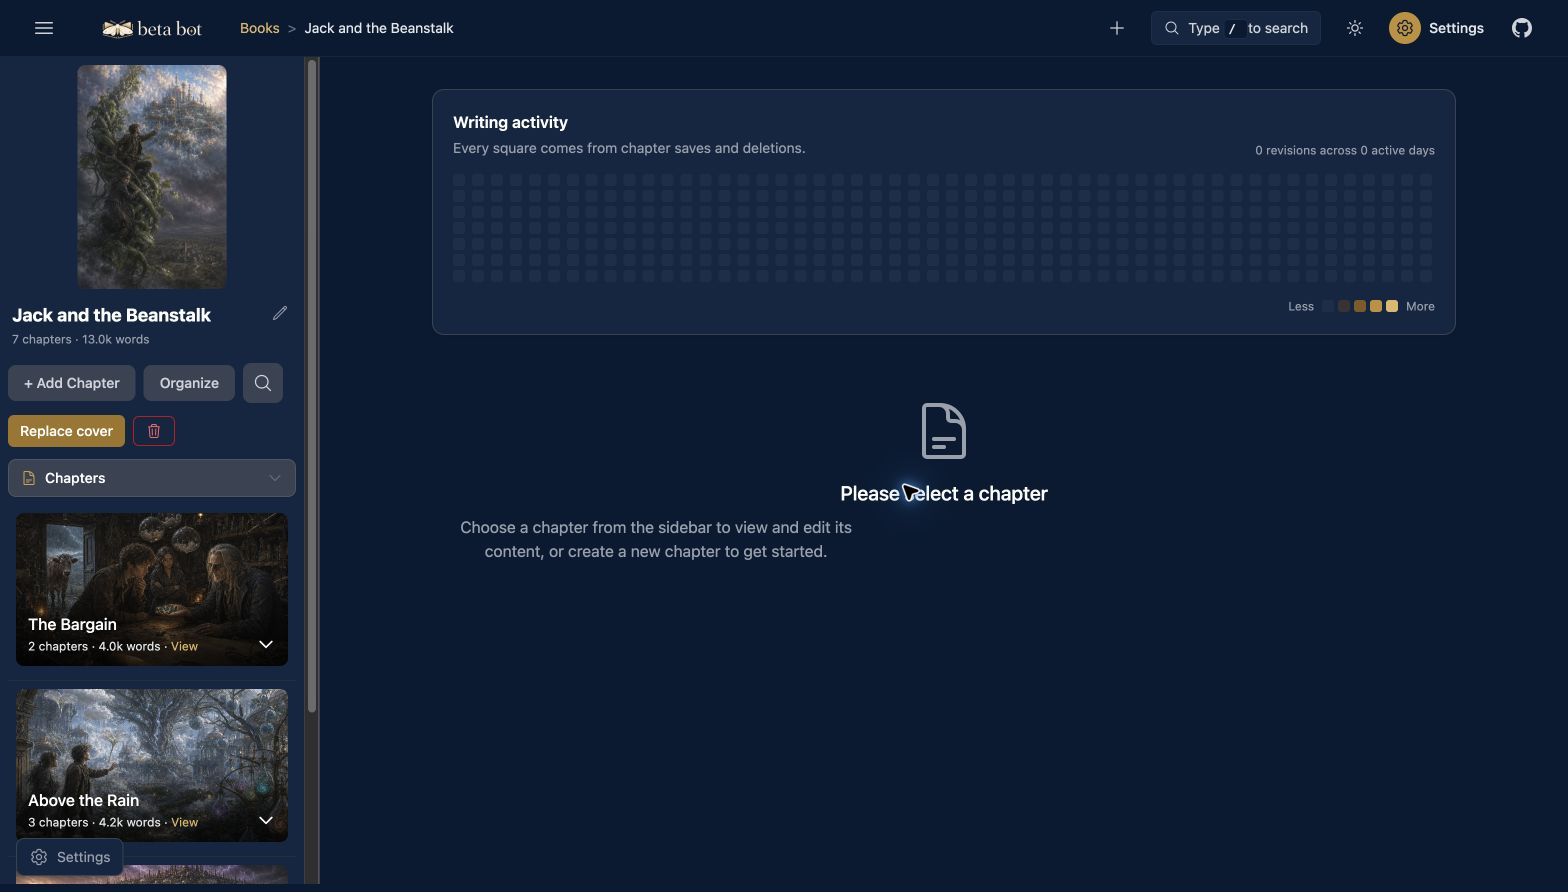
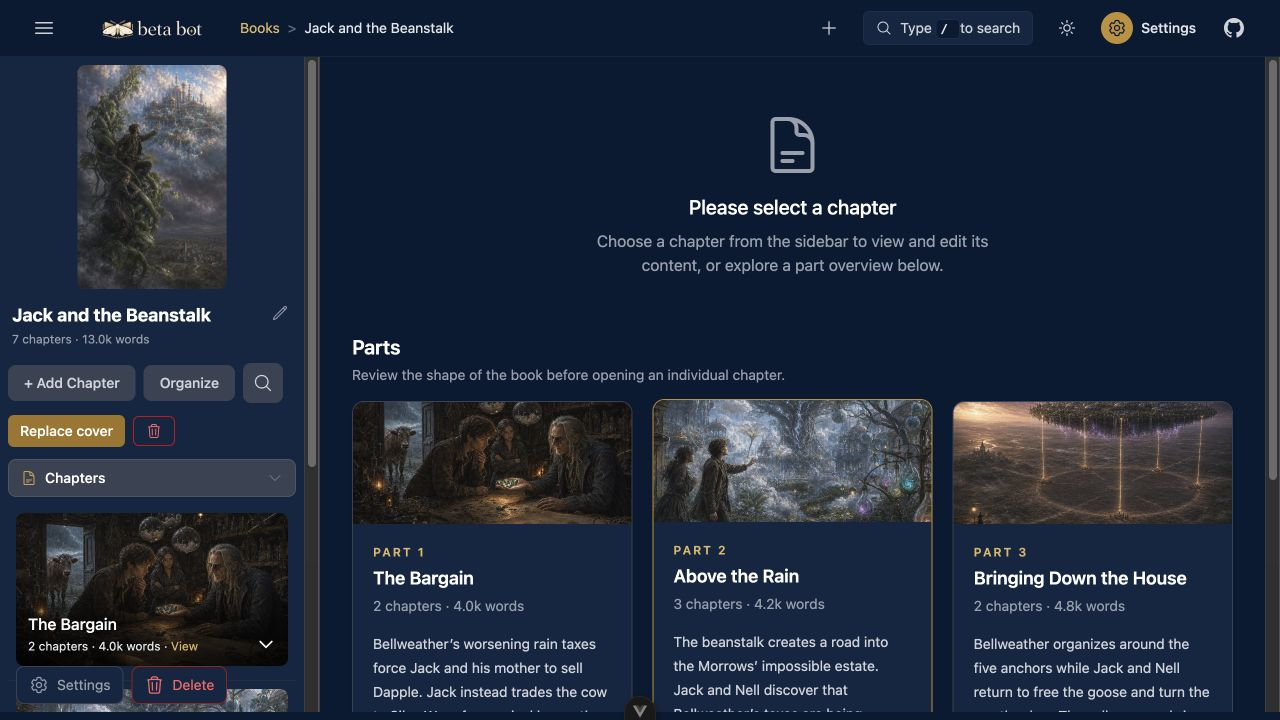
feat(books): enrich book overview

diff --git a/src/components/book/BookDesktopMainPane.vue b/src/components/book/BookDesktopMainPane.vue
@@ -3,12 +3,17 @@ import { DocumentTextIcon, PhotoIcon } from '@heroicons/vue/24/outline'
 import IllustrationDetail from '@/components/images/IllustrationDetail.vue'
 import type { ImageAsset, ImageWikiTag } from '@/lib/database'
 import type { ChapterRevisionActivity } from '@/lib/database'
-import type { BookWikiPage } from '@/types/bookView'
+import type { BookChaptersByPart, BookWikiPage } from '@/types/bookView'
 import BookActivityHeatmap from './BookActivityHeatmap.vue'
 
 defineProps<{
   bookId: string
+  booksPath: string
   currentTab: 'chapters' | 'wiki' | 'images'
+  chaptersByPart: BookChaptersByPart
+  partSummaries?: Record<string, string>
+  partThumbnails?: Record<string, string>
+  formatWordCount: (count: number) => string
   selectedImageId?: string | null
   selectedImageSrc?: string | null
   selectedImage?: ImageAsset | null
@@ -59,17 +64,71 @@ defineProps<{
 
     <div v-else-if="isOnBookOnly" class="h-full overflow-y-auto p-8">
       <div class="mx-auto max-w-5xl">
-        <BookActivityHeatmap :book-id="bookId" :activity="revisionActivity || []" />
-        <div class="mt-16 text-center">
-        <DocumentTextIcon class="w-16 h-16 text-gray-400 mx-auto mb-4" />
-        <h3 class="text-xl font-medium text-gray-900 dark:text-white mb-2">
-          Please select a chapter
-        </h3>
-        <p class="text-gray-600 dark:text-gray-400 max-w-md">
-          Choose a chapter from the sidebar to view and edit its content, or create a new
-          chapter to get started.
-        </p>
+        <div class="py-6 text-center">
+          <DocumentTextIcon class="mx-auto mb-4 h-16 w-16 text-gray-400" />
+          <h3 class="mb-2 text-xl font-medium text-gray-900 dark:text-white">
+            Please select a chapter
+          </h3>
+          <p
+            data-testid="chapter-selection-help"
+            class="mx-auto max-w-md text-gray-600 dark:text-gray-400"
+          >
+            Choose a chapter from the sidebar to view and edit its content, or explore a
+            part overview below.
+          </p>
         </div>
+
+        <section v-if="chaptersByPart.parts.length" class="mt-8" aria-labelledby="book-parts-heading">
+          <div class="mb-4">
+            <h2 id="book-parts-heading" class="text-xl font-semibold text-gray-900 dark:text-white">
+              Parts
+            </h2>
+            <p class="mt-1 text-sm text-gray-600 dark:text-gray-400">
+              Review the shape of the book before opening an individual chapter.
+            </p>
+          </div>
+
+          <div class="grid gap-5 md:grid-cols-2 xl:grid-cols-3">
+            <router-link
+              v-for="(part, index) in chaptersByPart.parts"
+              :key="part.id"
+              :to="`${booksPath}/${bookId}/parts/${part.id}`"
+              :data-testid="`book-overview-part-${part.id}`"
+              class="group overflow-hidden rounded-xl border border-gray-200 bg-white shadow-sm transition hover:-translate-y-0.5 hover:border-gold-400 hover:shadow-md dark:border-gray-700 dark:bg-navy-800 dark:hover:border-gold-500"
+            >
+              <div v-if="partThumbnails?.[part.id]" class="aspect-[16/7] overflow-hidden bg-gray-100 dark:bg-navy-700">
+                <img
+                  :src="partThumbnails[part.id]"
+                  :alt="`${part.name} cover`"
+                  class="h-full w-full object-cover transition duration-300 group-hover:scale-[1.02]"
+                />
+              </div>
+              <div class="p-5">
+                <p class="text-xs font-semibold uppercase tracking-[0.16em] text-gold-700 dark:text-gold-300">
+                  Part {{ index + 1 }}
+                </p>
+                <h3 class="mt-1 text-lg font-semibold text-gray-900 dark:text-white">
+                  {{ part.name }}
+                </h3>
+                <p class="mt-1 text-sm text-gray-500 dark:text-gray-400">
+                  {{ part.chapters.length }} chapter{{ part.chapters.length === 1 ? '' : 's' }} ·
+                  {{ formatWordCount(part.wordCount) }} words
+                </p>
+                <p
+                  :data-testid="`book-overview-part-summary-${part.id}`"
+                  class="mt-4 line-clamp-4 text-sm leading-6 text-gray-600 dark:text-gray-300"
+                >
+                  {{ partSummaries?.[part.id] || 'Open this part to review its chapters and add a part summary.' }}
+                </p>
+                <span class="mt-4 inline-flex text-sm font-semibold text-gold-700 group-hover:underline dark:text-gold-300">
+                  View part →
+                </span>
+              </div>
+            </router-link>
+          </div>
+        </section>
+
+        <BookActivityHeatmap class="mt-12" :book-id="bookId" :activity="revisionActivity || []" />
       </div>
     </div>
 

diff --git a/src/__tests__/BookView.spec.ts b/src/__tests__/BookView.spec.ts
@@ -17,7 +17,7 @@ const h = vi.hoisted(() => ({
   wikiPages: [] as Array<Record<string, unknown>>,
   activity: [] as Array<Record<string, unknown>>,
   loadBooks: vi.fn(async () => {}), loadChapters: vi.fn(async () => {}), getParts: vi.fn(),
-  getSummary: vi.fn(), getNotes: vi.fn(), getWikiPages: vi.fn(), getWikiPage: vi.fn(),
+  getSummary: vi.fn(), getPartSummary: vi.fn(), getNotes: vi.fn(), getWikiPages: vi.fn(), getWikiPage: vi.fn(),
   createWikiPage: vi.fn(async () => 'wiki-new'), saveBook: vi.fn(async () => {}),
   updateWikiPage: vi.fn(async () => {}), updateChapterOrders: vi.fn(async () => {}),
   updatePartOrder: vi.fn(async () => {}), getBookRevisionActivity: vi.fn(),
@@ -40,6 +40,7 @@ vi.mock('@/composables/useDatabase', async () => {
       books: ref(h.books), chapters: ref(h.chapters), loadBooks: h.loadBooks, loadChapters: h.loadChapters,
       getWikiPages: h.getWikiPages, getWikiPage: h.getWikiPage, createWikiPage: h.createWikiPage,
       getSummary: h.getSummary, getNotes: h.getNotes, saveBook: h.saveBook, getParts: h.getParts,
+      getPartSummary: h.getPartSummary,
       updateWikiPage: h.updateWikiPage, updateChapterOrders: h.updateChapterOrders,
       updatePartOrder: h.updatePartOrder, findReplaceMatches: vi.fn(), replaceFindReplaceMatches: vi.fn(),
       restoreFindReplaceFields: vi.fn(), setBookCoverImageId: h.setBookCoverImageId,
@@ -68,7 +69,7 @@ import BookView from '@/views/BookView.vue'
 const DesktopStub = {
   name: 'BookDesktopLayout',
   props: [
-    'book', 'chapterCount', 'totalWordCount', 'chaptersByPart', 'sidebarPartLists',
+    'book', 'chapterCount', 'totalWordCount', 'chaptersByPart', 'partSummaries', 'sidebarPartLists',
     'sidebarUncategorized', 'wikiPagesByType', 'revisionActivity', 'currentTab',
     'createNewChapter', 'createNewChapterInPart', 'goToOrganizeChapters', 'openSearchModal',
     'editChapter', 'insertChapter', 'togglePart', 'onSidebarDragEnd', 'startEditingBookTitle',
@@ -147,6 +148,7 @@ beforeEach(() => {
   h.activity = [{ id: 'revision-1', chapter_id: 'chapter-1', chapter_title: 'One', activity_type: 'save' }]
   h.getParts.mockImplementation(async () => h.parts)
   h.getSummary.mockImplementation(async (id: string) => id === 'chapter-1' ? { summary: 'Summary one.' } : null)
+  h.getPartSummary.mockImplementation(async (id: string) => id === 'part-1' ? { summary: 'The opening bargain.' } : null)
   h.getNotes.mockImplementation(async (id: string) => id === 'chapter-2' ? { notes: 'Note two.' } : null)
   h.getWikiPages.mockImplementation(async () => h.wikiPages)
   h.getWikiPage.mockResolvedValue(null)
@@ -174,6 +176,7 @@ describe('BookView', () => {
     expect(desktop.props('totalWordCount')).toBe(1000)
     expect(desktop.props('chaptersByPart').parts.map((item: { id: string }) => item.id)).toEqual(['part-2', 'part-1'])
     expect(desktop.props('chaptersByPart').parts[0].chapters[0].id).toBe('chapter-2')
+    expect(desktop.props('partSummaries')).toEqual({ 'part-1': 'The opening bargain.' })
     expect(desktop.props('revisionActivity')).toEqual(h.activity)
   })
 

diff --git a/src/__tests__/BookDesktopMainPane.spec.ts b/src/__tests__/BookDesktopMainPane.spec.ts
@@ -1,0 +1,60 @@
+// @vitest-environment jsdom
+import { describe, expect, it, vi } from 'vitest'
+import { mount } from '@vue/test-utils'
+import BookDesktopMainPane from '@/components/book/BookDesktopMainPane.vue'
+
+const part = {
+  id: 'part-1',
+  book_id: 'book-1',
+  name: 'The Bargain',
+  chapter_order: '["chapter-1"]',
+  cover_image_id: 'cover-1',
+  created_at: '2026-01-01T00:00:00.000Z',
+  updated_at: '2026-01-01T00:00:00.000Z',
+  chapters: [{
+    id: 'chapter-1', title: 'The Cloud', word_count: 2950, has_summary: true,
+    has_notes: false, summary: 'Chapter summary', position: 0,
+    position_in_part: 0, part_id: 'part-1', part_name: 'The Bargain',
+  }],
+  wordCount: 2950,
+}
+
+function mountPane(partSummaries: Record<string, string> = {}) {
+  return mount(BookDesktopMainPane, {
+    props: {
+      bookId: 'book-1',
+      booksPath: '/books',
+      currentTab: 'chapters',
+      chaptersByPart: { parts: [part], uncategorized: [], uncategorizedWordCount: 0 },
+      partSummaries,
+      partThumbnails: { 'part-1': 'part-cover.webp' },
+      formatWordCount: (count: number) => count.toLocaleString(),
+      isOnBookOnly: true,
+      routerViewKey: 0,
+      wikiPagePinChanged: vi.fn(),
+    },
+    global: {
+      stubs: {
+        RouterLink: { props: ['to'], template: '<a :href="to"><slot /></a>' },
+        RouterView: true,
+        BookActivityHeatmap: true,
+      },
+    },
+  })
+}
+
+describe('BookDesktopMainPane book overview', () => {
+  it('centers the chapter-selection guidance and lists part summaries', () => {
+    const wrapper = mountPane({ 'part-1': 'Jack accepts a dangerous bargain that changes the valley.' })
+
+    expect(wrapper.get('[data-testid="chapter-selection-help"]').classes()).toContain('mx-auto')
+    expect(wrapper.get('[data-testid="book-overview-part-summary-part-1"]').text()).toContain('dangerous bargain')
+    expect(wrapper.get('[data-testid="book-overview-part-part-1"]').attributes('href')).toBe('/books/book-1/parts/part-1')
+    expect(wrapper.text()).toContain('1 chapter · 2,950 words')
+  })
+
+  it('provides a useful fallback when a part has no summary yet', () => {
+    const wrapper = mountPane()
+    expect(wrapper.text()).toContain('Open this part to review its chapters and add a part summary.')
+  })
+})

diff --git a/src/views/BookView.vue b/src/views/BookView.vue
@@ -43,6 +43,7 @@ const {
   getWikiPage,
   createWikiPage,
   getSummary,
+  getPartSummary,
   getNotes,
   saveBook,
   getParts,
@@ -149,6 +150,7 @@ const {
 
 const chapters = ref<BookChapter[]>([]);
 const parts = ref<BookPart[]>([]);
+const partSummaries = ref<Record<string, string>>({});
 const partOrder = ref<string[]>([]);
 const loading = ref(false);
 const expandedSummaries = ref<Set<string>>(new Set());
@@ -542,6 +544,13 @@ const loadBook = async () => {
 
     // Load parts from database first
     parts.value = await getParts(bookId.value);
+    partSummaries.value = Object.fromEntries(
+      (await Promise.all(parts.value.map(async (part) => {
+        const summary = await getPartSummary(part.id);
+        const text = summary?.summary?.trim();
+        return text ? [part.id, text] as const : null;
+      }))).filter((entry): entry is readonly [string, string] => entry !== null)
+    );
 
     await syncPartOrderWithParts();
     await syncChaptersFromDb();
@@ -825,6 +834,7 @@ onMounted(async () => {
   <BookDesktopLayout
     :book="book"
     :book-id="bookId"
+    :books-path="booksPath"
     :is-editing-book-title="isEditingBookTitle"
     :editing-book-title="editingBookTitle"
     :chapter-count="chapterCount"
@@ -833,6 +843,7 @@ onMounted(async () => {
     :has-chapters="hasChapters"
     :loading-chapters="loading"
     :chapters-by-part="chaptersByPart"
+    :part-summaries="partSummaries"
     :sidebar-part-lists="sidebarPartLists"
     :sidebar-uncategorized="sidebarUncategorized"
     :expanded-parts="expandedParts"

diff --git a/src/components/book/BookDesktopLayout.vue b/src/components/book/BookDesktopLayout.vue
@@ -8,6 +8,7 @@ import BookDesktopSidebar from './BookDesktopSidebar.vue'
 withDefaults(defineProps<{
   book: Book | null
   bookId: string
+  booksPath: string
   isEditingBookTitle?: boolean
   editingBookTitle?: string
   chapterCount?: number
@@ -16,6 +17,7 @@ withDefaults(defineProps<{
   hasChapters?: boolean
   loadingChapters?: boolean
   chaptersByPart: BookChaptersByPart
+  partSummaries?: Record<string, string>
   sidebarPartLists: Record<string, BookChapter[]>
   sidebarUncategorized: BookChapter[]
   expandedParts: Set<string>
@@ -169,7 +171,12 @@ withDefaults(defineProps<{
 
       <BookDesktopMainPane
         :book-id="bookId"
+        :books-path="booksPath"
         :current-tab="currentTab"
+        :chapters-by-part="chaptersByPart"
+        :part-summaries="partSummaries"
+        :part-thumbnails="partThumbnails"
+        :format-word-count="formatWordCount"
         :selected-image-id="selectedImageId"
         :selected-image-src="selectedImageSrc"
         :selected-image="selectedImage"

diff --git a/src/views/DocsView.vue b/src/views/DocsView.vue
@@ -29,12 +29,12 @@ interface Section {
 const sections = ref<Section[]>([
   {
     id: 'manuscript',
-    title: 'A Real Manuscript',
-    description: 'Explore a complete illustrated manuscript organized into parts and chapters. This walkthrough uses the built-in Jack and the Beanstalk example throughout.',
+    title: 'An Illustrated Example Book',
+    description: 'Explore a complete illustrated book workspace organized into parts and chapters. This walkthrough uses the built-in Jack and the Beanstalk example throughout.',
     screenshots: [
       {
         src: jackManuscriptOverview,
-        alt: 'Jack and the Beanstalk manuscript overview',
+        alt: 'Jack and the Beanstalk book overview',
         caption: 'Jack and the Beanstalk includes seven chapters, three illustrated parts, chapter covers, summaries, and a connected story bible.'
       }
     ]

diff --git a/README.md b/README.md
@@ -116,9 +116,9 @@ Bardwall is an optional, illustrated mini-game woven into the app: a haunted tow
 
 ## Screenshots
 
-### A Real Manuscript
+### An Illustrated Example Book
 
-The built-in Jack and the Beanstalk example is a complete illustrated manuscript with parts, chapters, summaries, and a connected story bible.
+The built-in Jack and the Beanstalk example is a complete illustrated book workspace with parts, chapters, summaries, and a connected story bible.
 
 ![Jack and the Beanstalk manuscript](./src/assets/screenshots/jack-and-the-beanstalk-overview.png)
 
@@ -223,6 +223,18 @@ Create a `.env.local` file (or copy [.env.example](.env.example)) and configure 
 - User-facing export/import uses the versioned canonical library bundle. Internally, named database snapshots bridge the platform storage engines to the shared bundle codec.
 - Browser image bytes live in the IndexedDB `imageBlobs` object store. SQLite keeps only image metadata during normal use; legacy base64 rows migrate automatically in restartable batches.
 
+### Plain-text bundle round trips
+
+Beta bot's bundle format lets the visual app and a plain-text writing workflow share the same book. This is useful when you want the app for reading, organization, illustrations, summaries, and story-bible navigation, but prefer editing Markdown and YAML in a text editor—or with an AI coding tool such as the Codex or Claude desktop app or CLI.
+
+1. In beta bot, choose **Text-only Git workspace** as the export format and export the selected book as a folder or ZIP.
+2. Open the exported workspace in your editor, a Git repository, Codex, or Claude. Chapters, part summaries, chapter summaries, and wiki pages are ordinary Markdown; book structure and relationships use YAML.
+3. Edit and review the changes as normal text diffs. Keep existing entity IDs and frontmatter relationships intact, and do not edit `_beta-bot/inventory.json` by hand.
+4. Return to **My Books → Import Bundle**. Beta bot previews every create, update, and conflict before anything is written to the local library.
+5. Continue working in the visual UI. When you want to move back to plain text, export again; folder export safely updates app-managed files while preserving unknown files and customized workspace instructions.
+
+This makes the bundle a round-trip workspace rather than a one-way export. You can move between the UI and plain text repeatedly, keep the workspace under Git, and resolve overlapping edits explicitly during import. Full-library bundles remain the right choice for backup and device migration because they include image bytes, history, profiles, and audit data; text-only workspaces are optimized for editing and preserve matching local image content when reapplied.
+
 ### Google Drive Backup & Restore
 
 1. **Backup** (`User Settings → Back up to Drive`)
@@ -253,7 +265,7 @@ See [`docs/cloud-sync.md`](docs/cloud-sync.md) for troubleshooting (client secre
 
 ### Folder export and validation
 
-- **Export Git workspace to folder** writes the same canonical files as full ZIP and Drive backup.
+- Folder export can write either a complete library bundle or the editable text-only Git workspace, depending on the selected export format.
 - Existing bundles are updated from their prior inventory: unknown files and customized workspace guidance are preserved, and obsolete managed files are removed only after verified writes.
 - Validate either transport without opening the app or database:
 

diff --git a/docs/agent-workspaces.md b/docs/agent-workspaces.md
@@ -1,10 +1,10 @@
 # Git and agent workspaces
 
-Beta Bot can export the canonical library bundle directly to a folder in browsers that support the File System Access API. Choose **Export Git workspace to folder** in Settings, then select either an empty folder or a folder containing an earlier Beta Bot bundle.
+Beta Bot can export the canonical library bundle directly to a folder in browsers that support the File System Access API. Choose **Text-only Git workspace** as the export format in Settings, export to a folder, then select either an empty folder or a folder containing an earlier Beta Bot bundle.
 
 ZIP remains available on every supported platform. Folder export is progressive enhancement for Chromium-class browsers and compatible desktop builds.
 
-The current folder action writes a complete full-library bundle, including image bytes and app-owned history. A smaller `text-only` workspace export is planned in [#129](https://github.com/gennitdev/ai-beta-reader-frontend/issues/129); until then, do not describe folder export as text-only.
+Text-only workspaces keep the authored Markdown, YAML, relationships, stable IDs, and image metadata needed for an editable round trip without duplicating image binaries or app-owned recovery history. Full-library folder export remains available when a complete, replace-capable backup is needed.
 
 ## Safe folder updates
 
